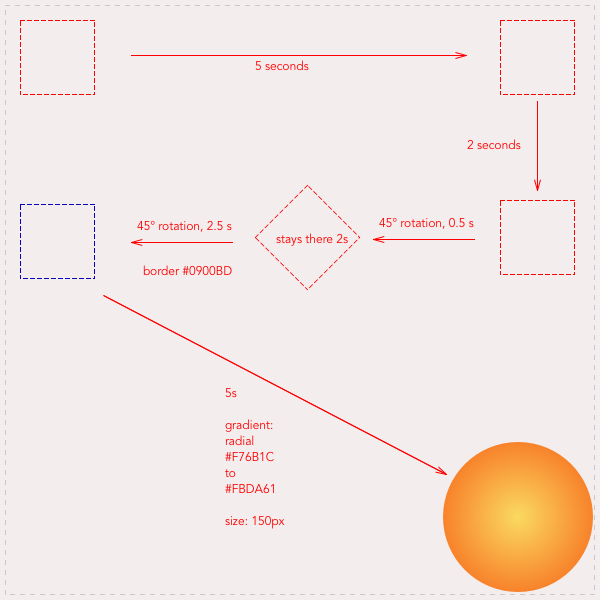
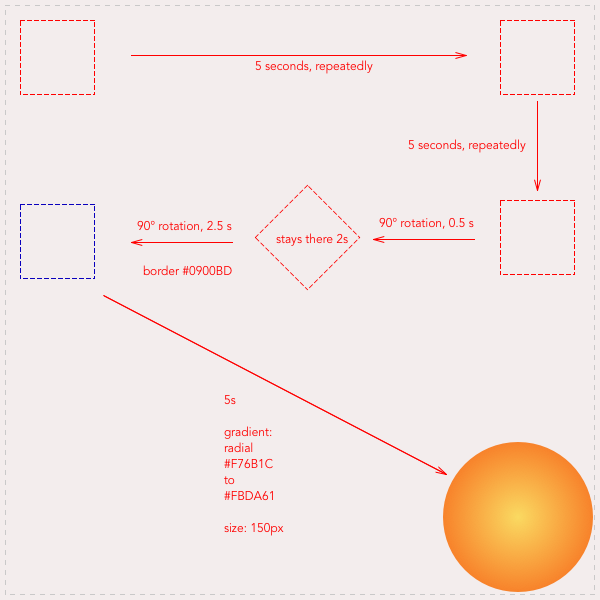
updates

diff --git a/style.css b/style.css
@@ -1,31 +1,183 @@
-
-#stage{
-  background-image: url(Images/css_animation_exercise_4.png);
-  background-repeat:no-repeat;
-  background-position: center;
-  margin: auto;
-  height: 600px;
-  width: 600px;
+* {
+  margin: 0px;
+  padding: 0px;
 }
 
-#hero{
+#stage {
+  position: absolute;
+  margin: auto;
+  top: 0px;
+  right: 0px;
+  bottom: 0px;
+  left: 0px;
+  width: 600px;
+  height: 600px;
+  background: #f3eded;
+  border: 1px 
+}
+
+#hero {
+  position: relative;
+  box-sizing: border-box;
   width: 75px;
   height: 75px;
-  border: 1px dashed red;
-  position: relative;
-  padding: 0px;
-  top: 20px;
   left: 20px;
-  animation-name: challenge;
-  animation-duration: 5s;
-
+  top: 20px;
+  animation: hero 20s alternate infinite;
+  -webkit-animation: hero 20s alternate infinite;
 }
 
-@keyframes challenge {
-  0% {left: 20px; top: 20px;border-radius: 0px; width: 75px; height: 75px;}
-  20% {left:500px; top: 20px; border-radius: 0px;width: 75px; height: 75px;}
-  30% {left: 500px; top: 200px;transform: rotate(0deg);border-radius: 0px; width: 75px; height: 75px;}
-  40% {top: 200px; left: 270px; transform: rotate(45deg);border-radius: 0px; width: 75px; height: 75px;}
-  60% {left: 270px; top: 200px;transform: rotate(45deg);border: 1px dashed red;border-radius: 0px; width: 75px; height: 75px;}
-  80% {left: 20px; top:200px;transform: rotate(90deg);border: 1px dashed blue; border-radius: 0px;width: 75px; height: 75px;}
-  100% {left:450px; top:450px;border-radius: 150px; width: 150px; height: 150px;}
+@keyframes hero{
+  0% {
+      left: 20px; 
+      top: 20px; 
+      transform: rotate(0deg); 
+      border: 1px dashed #FF0000; 
+      border-radius: 0px; 
+      width: 75px; 
+      height: 75px; 
+      background: transparent;
+  }
+
+  25% {
+      left: 500px; 
+      top: 20px; 
+      transform: rotate(0deg); 
+      border: 1px dashed #FF0000; 
+      border-radius: 0px;
+      width: 75px; 
+      height: 75px; 
+      background: transparent;
+  }
+
+  50% {
+      left: 500px; 
+      top: 201px; 
+      transform: rotate(0deg); 
+      border: 1px dashed #FF0000; 
+      border-radius: 0px; 
+      width: 75px; 
+      height: 75px; 
+      background: transparent;
+  }
+
+  52.50% {
+      left: 270px; 
+      top: 201px; 
+      transform: rotate(45deg); 
+      border: 1px dashed #FF0000; 
+      border-radius: 0px; 
+      width: 75px; 
+      height: 75px; 
+      background: transparent;
+  }
+
+  62.50% {
+      left: 270px; 
+      top: 201px; 
+      transform: rotate(45deg); 
+      border: 1px dashed #FF0000; 
+      border-radius: 0px; 
+      width: 75px; 
+      height: 75px; 
+      background: transparent;
+  }
+
+  75% {
+      left: 20px; 
+      top: 205px; 
+      transform: rotate(90deg); 
+      border: 1px dashed rgb(6, 6, 7); 
+      border-radius: 0px; 
+      width: 75px; 
+      height: 75px; 
+      background: transparent;
+  }
+
+  100% {
+      top: 442px; 
+      left: 442px; 
+      transform: rotate(90deg); 
+      border: none; 
+      border-radius: 150px; 
+      width: 150px; 
+      height: 150px; 
+      background: radial-gradient(rgb(251, 218, 97), rgb(247, 107, 28));
+  }
+}
+
+@-webkit-keyframes hero {
+  0% {
+      left: 20px; top: 20px; 
+      -webkit-transform: rotate(0deg); 
+      border: 1px dashed #FF0000; 
+      border-radius: 0px; width: 75px; 
+      height: 75px; background: transparent;
+  }
+  
+  25% {
+      left: 500px; 
+      top: 20px; 
+      -webkit-transform: rotate(0deg); 
+      border: 1px dashed #FF0000; 
+      border-radius: 0px; 
+      width: 75px; 
+      height: 75px; 
+      background: transparent;
+  }
+
+  50% {
+      left: 500px; 
+      top: 201px; 
+      -webkit-transform: rotate(0deg); 
+      border: 1px dashed #FF0000; 
+      border-radius: 0px; 
+      width: 75px; 
+      height: 75px; 
+      background: transparent;
+  }
+
+  52.50% {
+      left: 270px; 
+      top: 201px; 
+      -webkit-transform: rotate(45deg); 
+      border: 1px dashed #FF0000; 
+      border-radius: 0px; 
+      width: 75px; 
+      height: 75px; 
+      background: transparent;
+  }
+
+  62.50% {
+      left: 270px; 
+      top: 201px; 
+      -webkit-transform: rotate(45deg); 
+      border: 1px dashed #FF0000; 
+      border-radius: 0px; 
+      width: 75px; 
+      height: 75px; 
+      background: transparent;
+  }
+
+  75% {
+      left: 20px; 
+      top: 205px; 
+      -webkit-transform: rotate(90deg); 
+      border: 1px dashed rgb(6, 6, 7); 
+      border-radius: 0px; 
+      width: 75px; 
+      height: 75px; 
+      background: transparent;
+  }
+
+  100% {
+      bottom: 0px; 
+      right: 0px; 
+      -webkit-transform: rotate(90deg); 
+      border: none; 
+      border-radius: 150px; 
+      width: 150px; 
+      height: 150px; 
+      background: -webkit-radial-gradient(rgb(251, 218, 97), rgb(247, 107, 28));
+  }
+}

diff --git a/index.html b/index.html
@@ -1,14 +1,16 @@
 <!DOCTYPE html>
-<html lang="en" dir="ltr">
-  <head>
-    <meta charset="utf-8">
-    <link rel="stylesheet" href="style.css">
-    <title>Css Animation</title>
-  </head>
-  <body>
+<html lang="en">
+<head>
+  <html lang="en" dir="ltr">
+  <meta charset="utf-8">
+  <link rel="stylesheet" href="style.css">
+  <title>Css Animation</title>
+</head>
+<body>
+  <section>
     <div id="stage">
       <div id="hero"></div>
     </div>
-
-  </body>
+  </section>
+</body>
 </html>

diff --git a/README.md b/README.md
@@ -1,1 +1,20 @@
+## Date 
+25th May 2018, from 9h30 to 16h30;
+
+## About this Project
+This project has been organised as a challenge for the end of the  first period of our web dev training called `La Prairie`.
+
+**Objectives**
+Make an animation using CSS.
+
+## Layout
+![layout](Images/css_animation_exercise_square.png)
+![layout](Images/css_animation_exercise_1.png)
+![layout](Images/css_animation_exercise_2.png)
+![layout](Images/css_animation_exercise_3.png)
+![layout](Images/css_animation_exercise_4.png)
+
+## Final work
 [It looks like this](https://marianeniwe.github.io/CSS-Animation/.)
+
+
